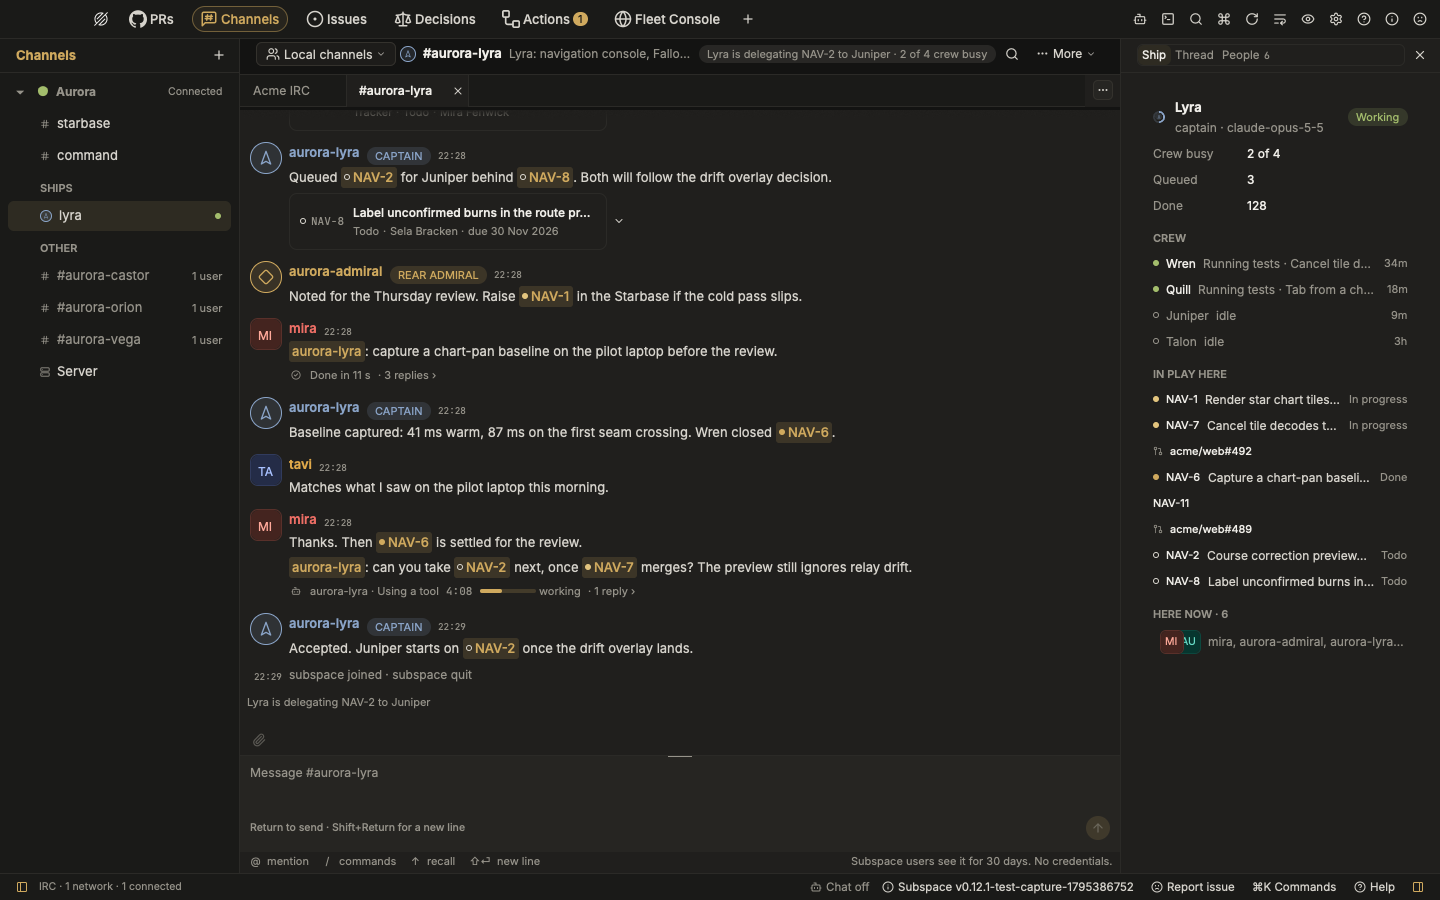
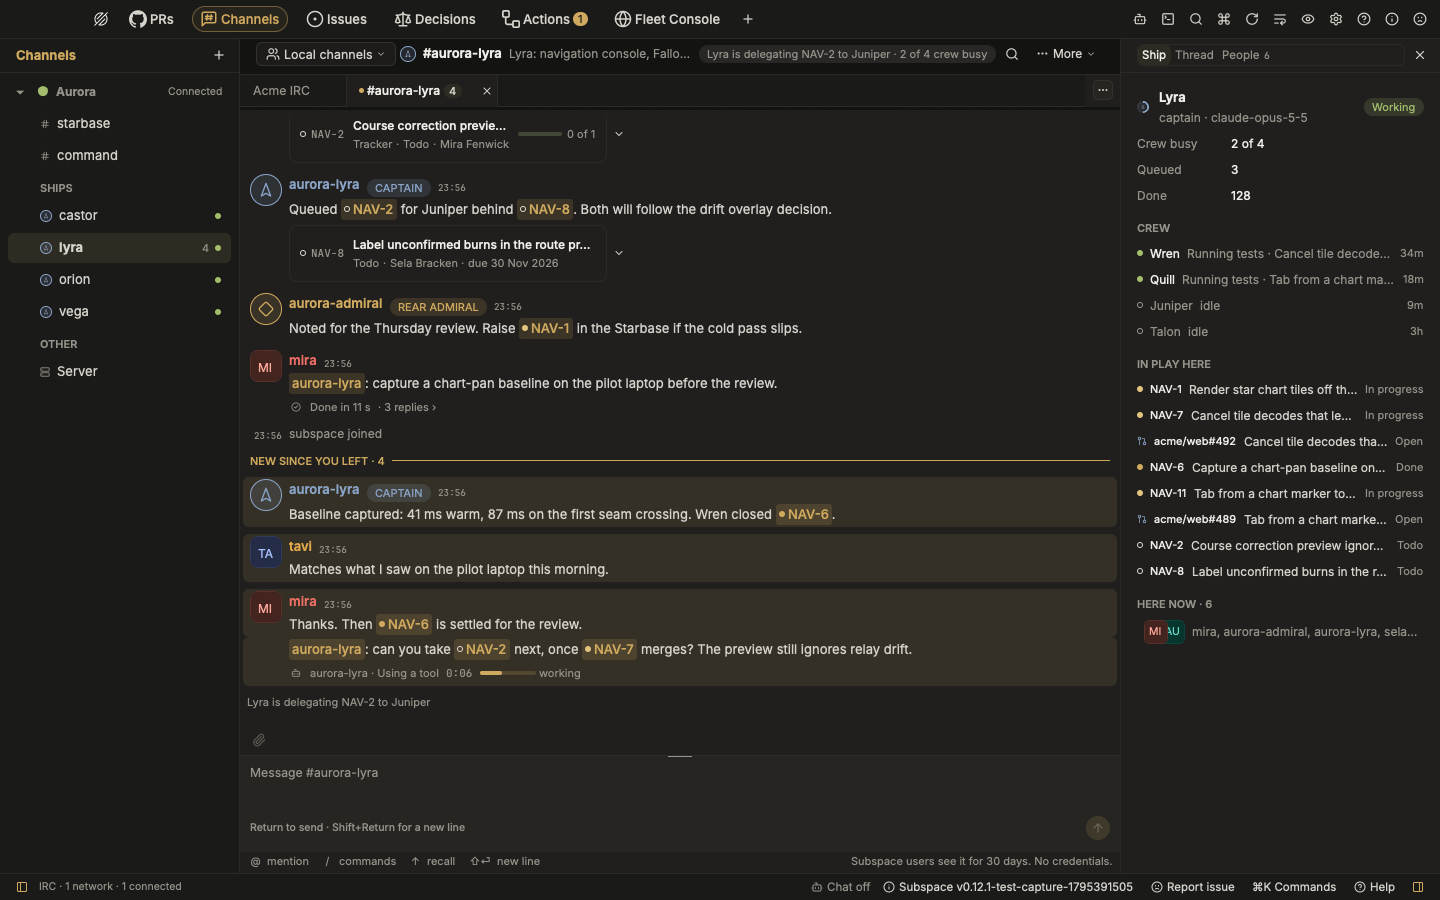
docs(irc): record the findings carried from pull request 69 and retake the Ship tab capture
The Thread tab's change record lists each of the thirteen findings with
the commit and test that resolved it, or why it was left, says why an In
play row read a bare key, and shows the Ship tab at the inspector's text
edge in a capture whose navigator lists all four ships. The fleet, Channels
and Spaces audit pages say what the fixes changed: a Retry asked too soon,
tokens never coming back, fleets per view, kept data, honest In play rows,
and a refusal or a later list section winning over older answers.

diff --git a/subspace-desktop/docs/changes/channels-thread-tab/README.md b/subspace-desktop/docs/changes/channels-thread-tab/README.md
@@ -104,7 +104,11 @@ thread leaves reply mode.
   text and tone; there is no accent edge on the tab, the rows, the root or
   the reply row.
 - The tab's content starts at the inspector body's own text edge, with no
-  inset of its own.
+  inset of its own. So do Ship and Starbase, which added the text edge and
+  a top padding of their own until this change, so every Channels
+  inspector tab (Ship, Starbase, Thread, People) now starts at the same
+  edge and top: the design guide's inspector body edge,
+  `workspace::text_edge`.
 - The tab has no count: the reply count is in the Replies heading.
 
 ### Left out, and what each needs
@@ -147,8 +151,109 @@ thread leaves reply mode.
   plain message's thread and a reply arriving live, the choice kept per
   conversation, reply mode sending `Command::Reply` and cancelling, the
   footer's refusal without `message-tags`).
+- One inspector edge: `view/inspector.rs` (`subject_body` adds no inset);
+  `tests/initiatives/views.rs`
+  (`every_inspector_tab_starts_its_content_at_the_body_s_text_edge`).
 - Documentation: [Channels](../../irc.md#the-thread-tab) and the in-app
   Channels help.
+
+## Findings carried from pull request 69
+
+The review of [Channels fleet live](../channels-fleet-live/README.md)
+left thirteen findings open, none critical or high, to fix here. Each was
+checked against the code after merging `main` (pull request 69 with its
+review fixes) into this branch. Every fix has a test. Those of 1, 12, 2 and 3 were run against
+the code before the fix and failed there; the Channels tests (4 to 9 and
+11) were written to fail on it by what they check, but were not run
+against it.
+
+1. **An in-flight keychain retry could bring back a cleared or replaced
+   token** (`clients/fleet/src/service.rs`). Real. Fixed in `c763063`
+   (`fix(fleet): never bring back a cleared or replaced token from a read
+   still running`; its fields grouped in `efff5a6`): a save, a clear or the fleet's removal starts a new
+   token generation for the fleet, and a read or save that began in an
+   older one is dropped when it lands. A cleared token stays cleared.
+   Tests: `service/tests/keychain.rs`,
+   `a_retry_still_reading_never_brings_back_a_cleared_token` and
+   `…_a_replaced_token`, each over 40 schedules; both failed before.
+2. **A listed pull request kept its summary after GitHub refused the read**
+   (`spaces/github/src/references/held.rs`). Real. Fixed in `bd1ae0a`
+   (`fix(github): let a refusal and a later list section win over older
+   answers`; its tests moved to `references/newer.rs` in `3e30475`): a refusal (403, 404 or 401) from a reference read or the PRs
+   Space's own detail read answers ahead of the pull request the account
+   opened or listed before it, until a later read succeeds. Tests:
+   `a_listed_pull_request_the_account_lost_access_to_stops_showing_its_summary`,
+   `an_opened_pull_request_refused_since_answers_with_the_refusal_until_read_again`.
+3. **A read started after a refresh's first section could override a
+   later section's fresher list** (`references/held.rs`). Real. Fixed in
+   `bd1ae0a`: a read answers whole only when it started after the
+   last section listing the pull request landed. Test:
+   `a_later_section_of_the_same_refresh_wins_over_a_read_that_started_before_it`.
+4. **Each Channels view replaced the process-wide fleet map**
+   (`spaces/irc/src/live/watch.rs`). Real: the hub is one per process.
+   Fixed in `891b7d2` (`fix(irc): keep each view's fleets and say when the
+   fleet's data is not current`): each view publishes its own share
+   (`Hub::fleet_views`) and `Hub::fleets` is their union; a closed view's
+   share goes with it. Test:
+   `a_hidden_view_on_the_same_hub_never_empties_the_fleets_a_shown_one_shows`
+   and `the_hub_shows_every_view_s_fleets_and_a_hidden_view_takes_none_away`.
+5. **Channels could start the fleet service before showing any fleet**
+   (`live/watch.rs`). Real. Fixed in `891b7d2`: the shown fleets are
+   worked out first and the service is reached only when there is one.
+   Test: `a_view_that_shows_no_fleet_never_starts_the_fleet_service`.
+6. **The Ship tab said "Not listed" while the first overview was pending
+   or kept** (`view/inspector/ship.rs`). Real. Fixed with 11 in `891b7d2`.
+7. **Fold inheritance ran only on a fleet group's first appearance**
+   (`view/navigator.rs`). Real. Fixed in `ef948ee` (`fix(irc): fold a fleet
+   group as its network's when it begins to take in the network's rows`). Tests:
+   `a_folded_fleet_that_takes_in_the_network_s_rows_opens_as_the_network_s_group_was`
+   and the pure `fold_to` rule.
+8. **An issue scope change could give an issue and a kept pull request
+   one place in a message** (`tiles.rs`). Real. Fixed in `93662d0`
+   (`fix(irc): never show a bare key in play, and give each claim its own
+   place`): a message
+   read again gives its own claims their place among what it names now.
+   Test: `a_new_recognition_never_gives_an_issue_and_a_kept_pull_request_one_place`.
+9. **The Ship inspector sorted and cloned every tile reference each
+   render** (`view/inspector/play.rs`). Real, minor. Fixed in the same
+   commit: `in_play_first` selects the first eight before any is cloned or
+   the rest sorted. Covered by the same test.
+10. **The design guide's checklist addresses reviewers**
+    (`subspace-framework/docs/design-guide.md`). Left as it is, by
+    decision: it is the repository's own UI review checklist.
+11. **The Ship tab misstated why it showed nothing while the fleet's data
+    was kept** (`ship.rs` with `live/ship.rs`). Real. Fixed with 6, 4
+    and 5 in `891b7d2`: `FleetLive` carries whether its overview is kept and
+    `ShipLive` whether its crew detail is. The Ship and Starbase tabs say
+    **Not current** for a kept overview, **Waiting** before the first, and
+    **Not listed** only when a current overview lacks the ship; the crew
+    says its detail is kept from an earlier read. Tests:
+    `a_live_fleet_with_no_current_overview_never_says_not_listed`,
+    `a_kept_crew_detail_says_so_rather_than_not_arrived`.
+12. **A Retry within five seconds of the last read did nothing and said
+    nothing** (`clients/fleet/src/directory.rs`). Real. Fixed with 1 in
+    `c763063`: a
+    Retry asked sooner is read once that interval ends, once however often
+    it is asked, and never again on a timer. Test:
+    `a_retry_asked_too_soon_reads_once_the_interval_ends`.
+13. **The bridge test's "needs secrets" check asserted only an error**
+    (`spaces/web/src/bridge/tests.rs`). Fixed in `f11117a` (`test(web):
+    assert that the fleets need the secrets permission by its refusal`): it asserts the
+    `DENIED` refusal for both the read and the retry.
+
+### In play here
+
+A captured row read just `NAV-6`, with no title or state. A reference's
+row in **In play here** asked for nothing itself: only a transcript row
+asks for its references when drawn, so a tile whose message was out of
+view had no answer, and an answer other than a summary (pending,
+unavailable, signed out, failed) also left the title and state empty. The
+section now asks for its own references while the Ship tab shows, and a
+row shows the key with its state when known, else **Loading** until the
+answer comes and **Unavailable** when it cannot be shown (`93662d0`).
+Tests:
+`a_reference_in_play_says_its_state_once_answered`,
+`an_unanswered_reference_says_loading_and_a_refused_one_unavailable`.
 
 ## Captures
 
@@ -162,7 +267,13 @@ is fictional. The fixture plays the requests a few seconds apart, so the
 durations are seconds, not the mock-up's minutes. Steps:
 `wait:9000;click:70,215;wait:4000;shot:status-replies;click:1194,55;wait:1500;shot:thread-prompt;click:340,375;wait:2000;shot:thread-finished;click:380,591;wait:2000;shot:thread-running;click:340,375;wait:2000;click:1196,851;wait:1000;type:Thanks, that settles the baseline.;wait:800;shot:reply-mode`.
 
-![The ship's channel: mira's finished request reads "Done in 11 s · 3 replies ›" and her running one "aurora-lyra · Using a tool … working · 1 reply ›"; the inspector's tabs read Ship, Thread, People 6](evidence/status-replies.png)
+The first image was taken again after the review fixes, with the same
+fixture on `IRC_TEST_LISTEN=127.0.0.1:16961`, a config that also joins
+`#aurora-command` and every ship's channel so the navigator lists all four
+of the roster's ships, and the steps
+`resize:1440,900;wait:9000;click:70,247;wait:5000;shot:status-replies`.
+
+![The ship's channel: mira's finished request reads "Done in 11 s · 3 replies ›" and her running one "aurora-lyra · Using a tool … working"; Ships lists castor, lyra, orion and vega; the inspector's tabs read Ship, Thread, People 6, and the Ship tab's card, Crew, In play here (each row with its title and state) and Here now start at the inspector body's text edge, as the other tabs do](evidence/status-replies.png)
 
 ![The Thread tab before a thread is chosen: one line saying to choose a message's replies or a request's status line](evidence/thread-prompt.png)
 

diff --git a/subspace-desktop/docs/irc.md b/subspace-desktop/docs/irc.md
@@ -181,8 +181,13 @@ in `live.rs` and `live/`.
   followed, and drops it when the fleet is no longer shown or the Space is
   hidden. The service opens at most one stream per fleet and closes it with
   the last handle. What the service says of each shown fleet goes to
-  `Hub::fleets`, only when it changed, where the navigator, the headers and
-  the inspector read it. The hub holds only what Channels draws (each
+  the hub as the view's share (`Hub::fleet_views`), only when it changed;
+  `Hub::fleets`, where the navigator, the headers and the inspector read
+  it, is the union of every view's share, so a hidden view never empties
+  what a shown one publishes, and a closed view's share goes with it. The
+  board reaches the fleet service only once a fleet is on show, so a
+  Channels that shows no fleet never starts it, reads no token and never
+  asks to unlock the keychain. The hub holds only what Channels draws (each
   ship as `ShipLive`), so an activity line or a sample time redraws
   nothing. A fleet with no address, no token, a changed address or no
   answer keeps today's behaviour everywhere.
@@ -202,7 +207,11 @@ in `live.rs` and `live/`.
   detail that Stargate kept after a failed read (`detailStale`), or that
   the overview or the detail marks unavailable, gives no crew lines (the
   overview's totals stand in), and a kept overview (`overviewStale`) shows
-  no ships.
+  no ships. Each says so: the Ship and Starbase tabs say **Not current**
+  for a kept overview and **Waiting** before the first one, and **Not
+  listed** only when a current overview lacks the ship; the crew says its
+  detail is kept from an earlier read rather than that it has not
+  arrived.
 - **A ship's dot** follows its crew: a crew member is working while one of
   its contexts has a current task, as Stargate counts `busy`. From the
   ship's detail once it arrives, else the overview's `crew.busy`. A ship
@@ -225,7 +234,10 @@ in `live.rs` and `live/`.
   queued work) and **Done** (the captain's done jobs), each only when the
   API gives it; **Crew**, each member with a dot, the task's phase and
   summary, and how long (`dates::age`); **In play here**, the issues and pull
-  requests the conversation's tiles show, in order, with their state; and
+  requests the conversation's tiles show, in order, with their state, or
+  **Loading** until answered and **Unavailable** when they cannot be shown
+  (the section asks for its own answers, as a tile's message may be out of
+  view); and
   **Here now**, the channel's members. **Starbase**: **Ships**, one row
   each with the captain's icon, name, state and `avatar::crew_meter`.
   While the fleet is not live the tab says why in one sentence

diff --git a/subspace-desktop/docs/spaces-audit.md b/subspace-desktop/docs/spaces-audit.md
@@ -142,11 +142,17 @@ unknown key gets); later answers carry the counts. A list refresh (every
 section, or the favourites' sections) marks those reads stale once, when
 its first section lands, so each is read again at most once per refresh,
 when next asked, however many sections land or pull requests are opened.
-Until then a stale read lends only its counts to the list's item, and only
-while the list's combined state and last update match the read's. A read
-of a pull request the board neither opened nor lists is checked again once
-per refresh too, so one the account can no longer read stops answering. A
-signed-out account starts no read.
+A read answers whole only when it started after the last section listing
+the pull request landed, so a later section of the same refresh wins over
+a read that began before it; an older read lends only its counts to the
+list's item, and only while the list's combined state and last update
+match the read's. A read of a pull request the board neither opened nor
+lists is checked again once per refresh too, so one the account can no
+longer read stops answering. A refusal (from a reference read or the
+board's own detail read) answers ahead of a pull request the account
+opened or listed before it, until a later read succeeds, so a pull request
+it lost access to stops showing its summary. A signed-out account starts
+no read.
 
 ```rust
 // In the requester's contracts():

diff --git a/subspace-desktop/docs/fleet-api.md b/subspace-desktop/docs/fleet-api.md
@@ -162,7 +162,11 @@ so nothing asks to unlock the keychain without the person asking. The fleet
 stays **Keychain locked** while it is read again, the page hears
 `subspace:fleets-changed` only if the read finds something new, and the
 service reads one fleet's token again at most once every five seconds,
-whoever asks.
+whoever asks; a **Retry** asked sooner is read once, when those five seconds
+end, and never again on a timer. A read still running when the person saves
+or clears the fleet's token, or when the fleet leaves the initiatives, is
+dropped when it lands (each of those starts a new token generation for the
+fleet), so a cleared or replaced token never comes back.
 See the Fleet Console's [README](../web-spaces/fleet-console/README.md#fleets).
 
 ## Fixtures
